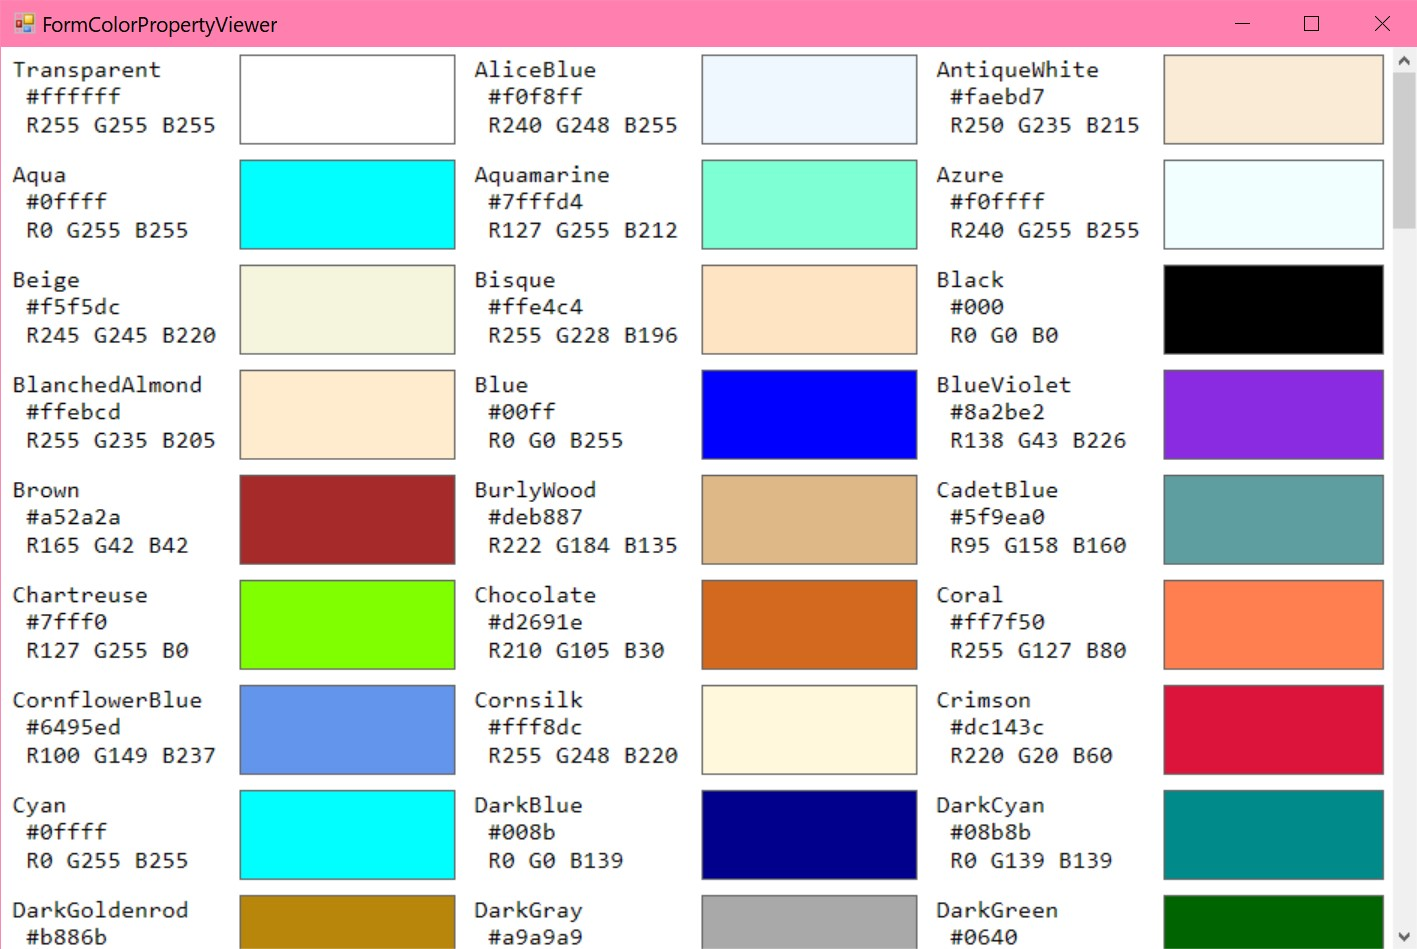
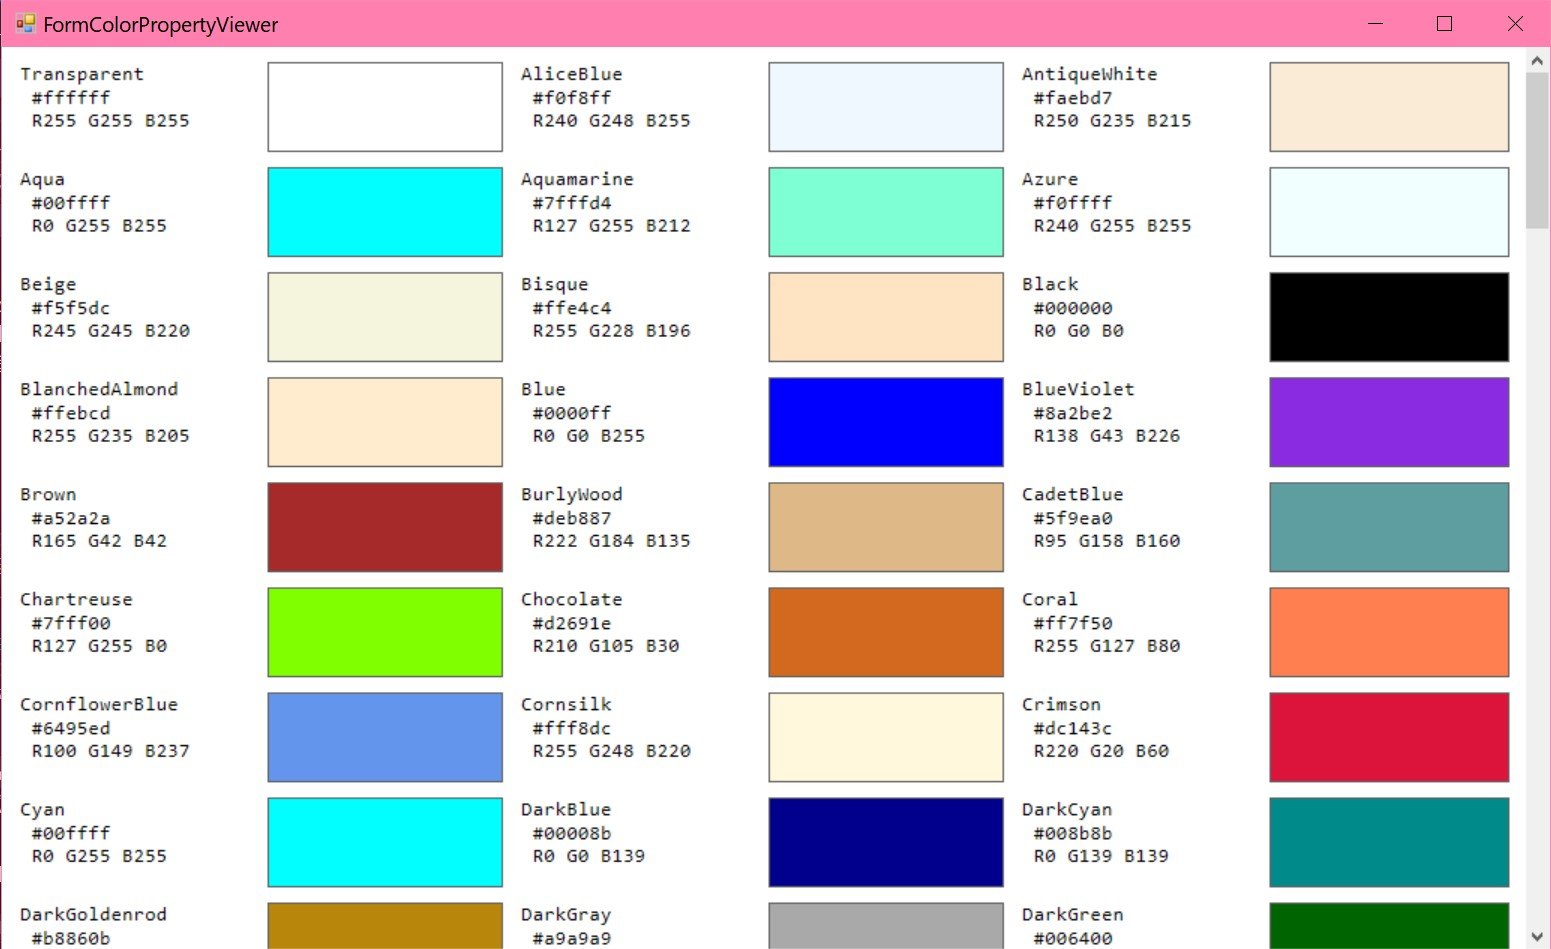
2022-09-09-1400

diff --git a/WinFormSample/Viewer/ColorSample/MainColorPropertiyViewer.cs b/WinFormSample/Viewer/ColorSample/MainColorPropertiyViewer.cs
@@ -176,25 +176,36 @@
  *         byte  color.B   Blueの値
  *         
  *         ＊16進数表記  00-ff
- *         ${value : x}  value: 変数名, x: 16進数であることを示す記号
+ *         ${value:x}  value: 変数名, 
+ *                     x: 16進数であることを示す記号。xの前に半角スペース不可
  *            
- *         int  Convert.ToInt32(string, int baseformat)
- *           引数 string value: 数値文字列
- *               int formBase: 進数 2, 8, 10, 16
- *               
+ *         int     Convert.ToInt32(string, int baseformat)
+ *         string  Convert.ToStryng(byte, int baseformat)
+ *                   引数 string value: 数値文字列
+ *                        int formBase: 進数 2, 8, 10, 16
+ *                        
  *@NOTE【Problem】
- *      table.RowCount = length / COLUMN; とすると、
- *      最終行が 無限に続く大きさになってしまう問題。
- *      Color型のプロパティ数 141 / (Column数 6 / Label数 2) = 47 を リテラルとして代入すると解決。
- *      おそらく、割算を intにする際の誤差バグと思われる。
+ *      ・table.RowCount = colorOnlyAry.Length / COLUMN; とすると、
+ *       最終行が 無限に続く大きさになってしまう問題。
+ *       Color型のプロパティ数 141 / (Column数 6 / Label数 2) = 47 を リテラルとして代入すると解決。
+ *       おそらく、割算を intにする際の誤差バグと思われる。
  *      
- *@see ~/Reference/ColorSample/ImageColorPropertiyViewer1.jpg - 6.jpg
+ *      ・Colorプロパティは、Color型の色名プロパティだけでなく、
+ *        byte, bool, stringなども存在するため、色名のみ利用する場合は
+ *        if (info.PropertyType != typeof(Color)) { continue; }で
+ *        処理をスキップするようにしておく。
+ *        (List<PropertyInfo> に Color型プロパティだけを格納する方法もあるが、
+ *         初期起動が重いので、なるべく軽くする)
+ *         
+ *       ・初期起動の重さは、大量の Labelオブジェクト生成と、
+ *         Refrection経由で Color取得/参照していることが原因と思う。
+ *        
+ *@see ImageColorPropertyViewer1.jpg - 6.jpg
  *@see ~/CsharpCode/ShowProrertyAll.cs
  *@author shika
  *@date 2022-09-05
  */
 using System;
-using System.Collections.Generic;
 using System.Drawing;
 using System.Reflection;
 using System.Windows.Forms;
@@ -209,7 +220,6 @@ namespace WinFormGUI.Viewer.ColorSample
         {
             Console.WriteLine("new FormColorPropertyViewer()");
             Console.WriteLine("  Calculating now...");
-            Console.WriteLine("  Please wait few minutes.");
 
             Application.EnableVisualStyles();
             Application.Run(new FormColorPropertyViewer());
@@ -220,32 +230,27 @@ namespace WinFormGUI.Viewer.ColorSample
 
     class FormColorPropertyViewer : Form
     {
-        private readonly PropertyInfo[] colorOnlyAry;
-        private const int COLUMN = 6;
         private readonly TableLayoutPanel table;
-        private readonly Label[] nameAry;
-        private readonly Label[] viewAry;
+        private readonly PropertyInfo[] colorAry;
         private readonly Padding padding = new Padding(5);
+        private const int COLUMN = 6;
 
         public FormColorPropertyViewer()
         {
             this.Text = "FormColorPropertyViewer";
-            this.Font = new Font("consolas", 12, FontStyle.Regular);
-            this.Size = new Size(960, 640);
+            this.Font = new Font("consolas", 10, FontStyle.Regular);
+            this.Size = new Size(1048, 640);
             this.FormBorderStyle = FormBorderStyle.FixedSingle;
             this.BackColor = SystemColors.Window;
             
-            colorOnlyAry = BuildColorOnlyAry();
-            int length = colorOnlyAry.Length;
-            nameAry = new Label[length];
-            viewAry = new Label[length];
-            //Console.WriteLine($"length: {length}"); // 141
+            colorAry = typeof(Color).GetProperties();
 
             //---- TableLayoutPanel ----
             table = new TableLayoutPanel()
             {
                 ColumnCount = COLUMN,
-                RowCount = 47,        // = length / (COLUMN / 2)
+                RowCount = 47,        // = colorOnlyAry.Length / (COLUMN / 2)
+                Padding = padding,
                 Dock = DockStyle.Fill,
                 AutoScroll = true,
             };
@@ -258,58 +263,48 @@ namespace WinFormGUI.Viewer.ColorSample
 
             for (int i = 0; i < table.RowCount; i++)
             {
-                table.RowStyles.Add(new RowStyle(SizeType.Absolute, 70));  //px単位
+                table.RowStyles.Add(
+                    new RowStyle(SizeType.Absolute, 70));  //px単位
             }//for
 
             //---- Label ----
-            int index = 0;
-            foreach(PropertyInfo info in colorOnlyAry)
+            foreach(PropertyInfo info in colorAry)
             {
+                if (info.PropertyType != typeof(Color)) { continue; }
+
                 string name = info.Name;
                 Color color = (Color)info.GetValue(name);
                 string colorRGB = $"R{color.R} G{color.G} B{color.B}";        // byte表記:   0-255
-                string colorRGB16 = $"#{color.R :x}{color.G :x}{color.B :x}"; // 16進数表記: $"{value : x}"  00-ff
+                
+                string colorR16 = $"{color.R:x}";
+                string colorG16 = $"{color.G:x}";
+                string colorB16 = $"{color.B:x}";
+                colorR16 = (colorR16.Length == 1) ? ("0" + colorR16) : colorR16;
+                colorG16 = (colorG16.Length == 1) ? ("0" + colorG16) : colorG16;
+                colorB16 = (colorB16.Length == 1) ? ("0" + colorB16) : colorB16;
+                string colorRGB16 = $"#{colorR16}{colorG16}{colorB16}"; // 16進数表記: $"{value:x}"  00-ff
             
-                nameAry[index] = new Label()
+                Label labelName = new Label()
                 {
                     Text = $"{name}\n {colorRGB16}\n {colorRGB}",
-                    Dock = DockStyle.Fill,
                     Margin = padding,
+                    Dock = DockStyle.Fill,
                     AutoSize = true,
                 };
-                table.Controls.Add(nameAry[index]);
+                table.Controls.Add(labelName);
 
-                viewAry[index] = new Label()
+                Label labelView = new Label()
                 {
                     BorderStyle = BorderStyle.FixedSingle,
                     BackColor = color,
-                    Dock = DockStyle.Fill,
                     Margin = padding,
+                    Dock = DockStyle.Fill,
                     AutoSize = true,
                 };
-                table.Controls.Add(viewAry[index]);
-
-                index++;
+                table.Controls.Add(labelView);
             }//foreach
             
             this.Controls.Add(table);
         }//constructor
-
-        private PropertyInfo[] BuildColorOnlyAry()
-        {
-            PropertyInfo[] colorPropertyAry = typeof(Color).GetProperties();
-            List<PropertyInfo> colorOnlyList = 
-                new List<PropertyInfo>(colorPropertyAry.Length);
-            
-            foreach (PropertyInfo info in colorPropertyAry)
-            {
-                if (info.PropertyType == typeof(Color))
-                {
-                    colorOnlyList.Add(info);
-                }
-            }//foreach
-
-            return colorOnlyList.ToArray();
-        }//BuildColorOnlyList()
     }//class
 }

diff --git a/WinFormSample/Viewer/ColorSample/MainSystemColorsViewer.cs b/WinFormSample/Viewer/ColorSample/MainSystemColorsViewer.cs
@@ -1,0 +1,182 @@
+/** 
+ *@title WinFormGUI / WinFormSample / Viewer / ColorSample
+ *@based MainColorPropertiyViewer.cs
+ *@class MainSystemColorsViewer.cs
+ *@class   └ new FormSystemColorsViewer() : Form
+ *@reference CS 山田祥寛『独習 C＃ [新版] 』 翔泳社, 2017
+ *@reference NT 山田祥寛『独習 ASP.NET [第６版] 』 翔泳社, 2019
+ *@reference RR 増田智明・国本温子『Visual C＃2019 逆引き大全 500の極意』 秀和システム, 2019
+ *@reference KT ナガノ  『Windows Form C#』KaiteiNet, 2018
+ *           http://kaitei.net/csforms/
+ *           =>〔~/Reference/Article_KaiteiNet/WinForm07_Graphics.txt〕
+ *           
+ *@content SystemColorsViewer
+ *         SystemColorsの Propertyを 色見本と伴に一覧表示
+ *         
+ *@subject ◆class System.Drawing.SystemColors
+ *         ＊All Properties  33個
+ *         Color   SystemColors.ActiveBorder  { get; }
+ *         Color   SystemColors.ActiveCaption  { get; }
+ *         Color   SystemColors.ActiveCaptionText  { get; }
+ *         Color   SystemColors.AppWorkspace  { get; }
+ *         Color   SystemColors.ButtonFace  { get; }
+ *         Color   SystemColors.ButtonHighlight  { get; }
+ *         Color   SystemColors.ButtonShadow  { get; }
+ *         Color   SystemColors.Control  { get; }
+ *         Color   SystemColors.ControlDark  { get; }
+ *         Color   SystemColors.ControlDarkDark  { get; }
+ *         Color   SystemColors.ControlLight  { get; }
+ *         Color   SystemColors.ControlLightLight  { get; }
+ *         Color   SystemColors.ControlText  { get; }
+ *         Color   SystemColors.Desktop  { get; }
+ *         Color   SystemColors.GradientActiveCaption  { get; }
+ *         Color   SystemColors.GradientInactiveCaption  { get; }
+ *         Color   SystemColors.GrayText  { get; }
+ *         Color   SystemColors.Highlight  { get; }
+ *         Color   SystemColors.HighlightText  { get; }
+ *         Color   SystemColors.HotTrack  { get; }
+ *         Color   SystemColors.InactiveBorder  { get; }
+ *         Color   SystemColors.InactiveCaption  { get; }
+ *         Color   SystemColors.InactiveCaptionText  { get; }
+ *         Color   SystemColors.Info  { get; }
+ *         Color   SystemColors.InfoText  { get; }
+ *         Color   SystemColors.Menu  { get; }
+ *         Color   SystemColors.MenuBar  { get; }
+ *         Color   SystemColors.MenuHighlight  { get; }
+ *         Color   SystemColors.MenuText  { get; }
+ *         Color   SystemColors.ScrollBar  { get; }
+ *         Color   SystemColors.Window  { get; }
+ *         Color   SystemColors.WindowFrame  { get; }
+ *         Color   SystemColors.WindowText  { get; }
+ *
+ *@see ImageSystemColorsViewer.jpg
+ *@see WinFormGUI / CsharpCode / ShowPropertyAll.cs
+ *@author shika
+ *@date 2022-09-09
+ */
+using System;
+using System.Drawing;
+using System.Reflection;
+using System.Windows.Forms;
+
+namespace WinFormGUI.WinFormSample.Viewer.ColorSample
+{
+    class MainSystemColorsViewer
+    {
+        //[STAThread]
+        //static void Main()
+        public void Main()
+        {
+            Console.WriteLine("new FormSystemColorsViewer()");
+
+            Application.EnableVisualStyles();
+            Application.Run(new FormSystemColorsViewer());
+
+            Console.WriteLine("Close()");
+        }//Main()
+    }//class
+
+    class FormSystemColorsViewer : Form
+    {
+        private readonly TableLayoutPanel table;
+        private readonly PropertyInfo[] colorAry = typeof(Color).GetProperties();
+        private readonly PropertyInfo[] sysColorAry = typeof(SystemColors).GetProperties();
+        private const int COLUMN = 6;
+
+        public FormSystemColorsViewer()
+        {
+            this.Text = "FormSystemColorsViewer";
+            this.Font = new Font("consolas", 10, FontStyle.Regular);
+            this.Size = new Size(1200, 640);
+            this.FormBorderStyle = FormBorderStyle.FixedSingle;
+            this.BackColor = SystemColors.Window;
+
+            table = new TableLayoutPanel()
+            {
+                ColumnCount = COLUMN,
+                RowCount = 13,
+                Padding = new Padding(10),
+                Dock = DockStyle.Fill,
+                AutoScroll = true,
+            };
+
+            for(int i = 0; i < table.ColumnCount; i++)
+            {
+                table.ColumnStyles.Add(
+                    new ColumnStyle(SizeType.Percent, 100 / COLUMN));
+            }//for
+
+            for (int i = 0; i < table.RowCount; i++)
+            {
+                table.RowStyles.Add(
+                    new RowStyle(SizeType.Absolute, 70));  //px単位
+            }//for
+
+            //---- Label ----
+            Label labelPart = new Label()
+            {
+                Text = "◆ class System.Drawing.SystemColors",
+                TextAlign = ContentAlignment.MiddleLeft,
+                Dock = DockStyle.Fill,
+                AutoSize = true,
+            };
+            table.Controls.Add(labelPart, 0, 0);
+            table.SetColumnSpan(labelPart, COLUMN);
+       
+            foreach (PropertyInfo info in sysColorAry)
+            {
+                string name = info.Name;
+                Color color = (Color)info.GetValue(name);
+                string colorName = SearchColorName(color);
+                string colorR16 = Convert.ToString(color.R, 16);
+                string colorG16 = Convert.ToString(color.G, 16);
+                string colorB16 = Convert.ToString(color.B, 16);
+                colorR16 = (colorR16.Length == 1) ? ("0" + colorR16) : colorR16;
+                colorG16 = (colorG16.Length == 1) ? ("0" + colorG16) : colorG16;
+                colorB16 = (colorB16.Length == 1) ? ("0" + colorB16) : colorB16;
+
+                Label labelName = new Label()
+                {
+                    Text = $"{name}\n {colorName}\n #{colorR16}{colorG16}{colorB16}",
+                    Margin = new Padding(5),
+                    Dock = DockStyle.Fill,
+                    AutoSize = true,
+                };
+                table.Controls.Add(labelName);
+
+                Label labelView = new Label()
+                {
+                    BackColor = color,
+                    BorderStyle = BorderStyle.FixedSingle,
+                    Margin = new Padding(5),
+                    Dock = DockStyle.Fill,
+                    AutoSize = true,
+                };
+                table.Controls.Add(labelView);
+            }//foreach
+
+            this.Controls.Add(table);
+        }//constructor
+
+        private string SearchColorName(Color sampleColor)
+        {
+            string srcName = "";
+            
+            foreach(PropertyInfo colorInfo in colorAry)
+            {
+                if(colorInfo.PropertyType != typeof(Color)) { continue; }
+                
+                string name = colorInfo.Name;
+                Color color = (Color)colorInfo.GetValue(name);
+                
+                if(color.ToArgb() == sampleColor.ToArgb())
+                {
+                    srcName = name;
+                    break;
+                }//if
+            }//foreach
+
+            return srcName;
+        }//SearchColorName()
+    }//class
+}
